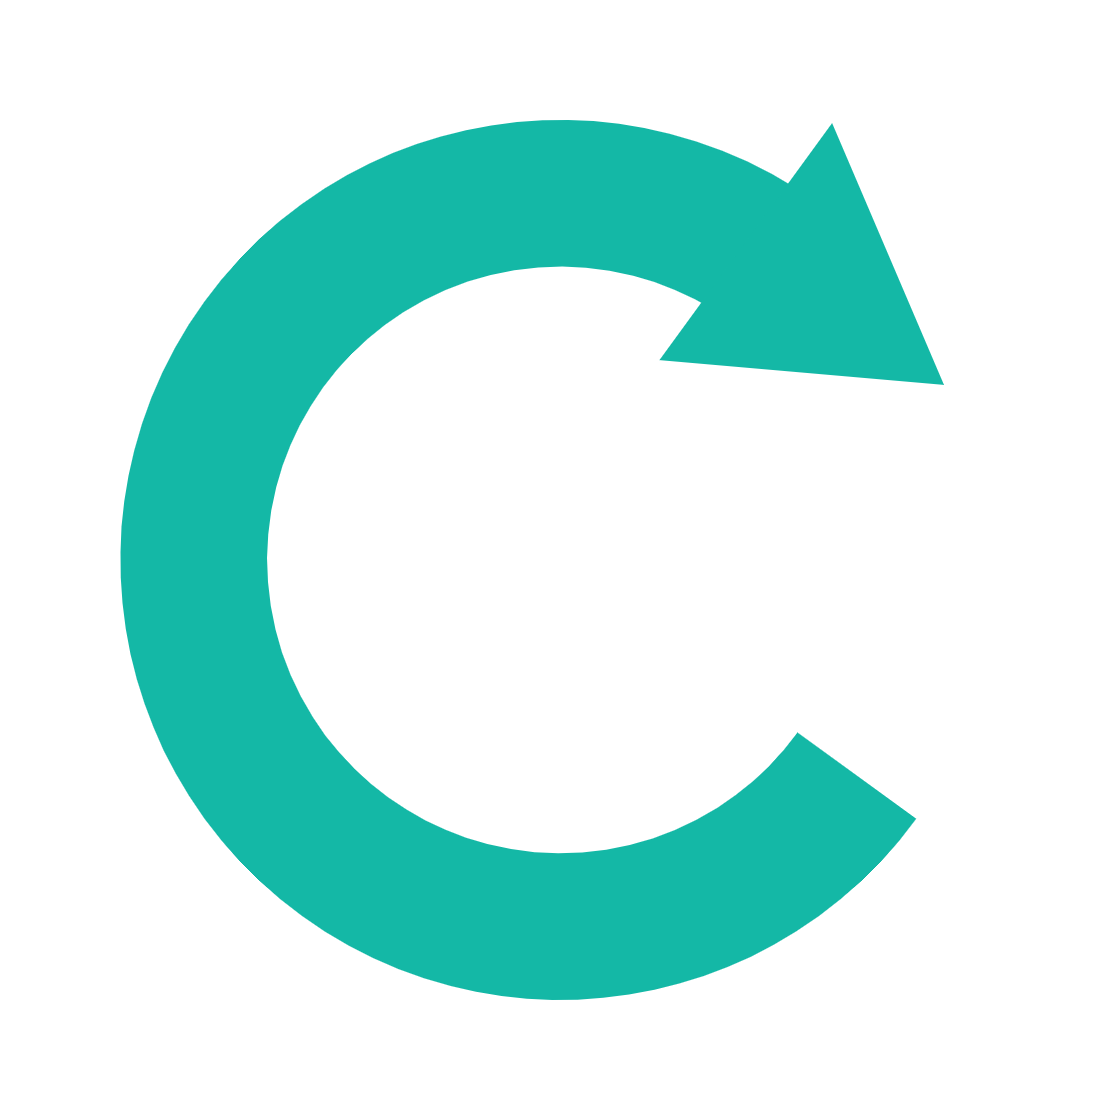
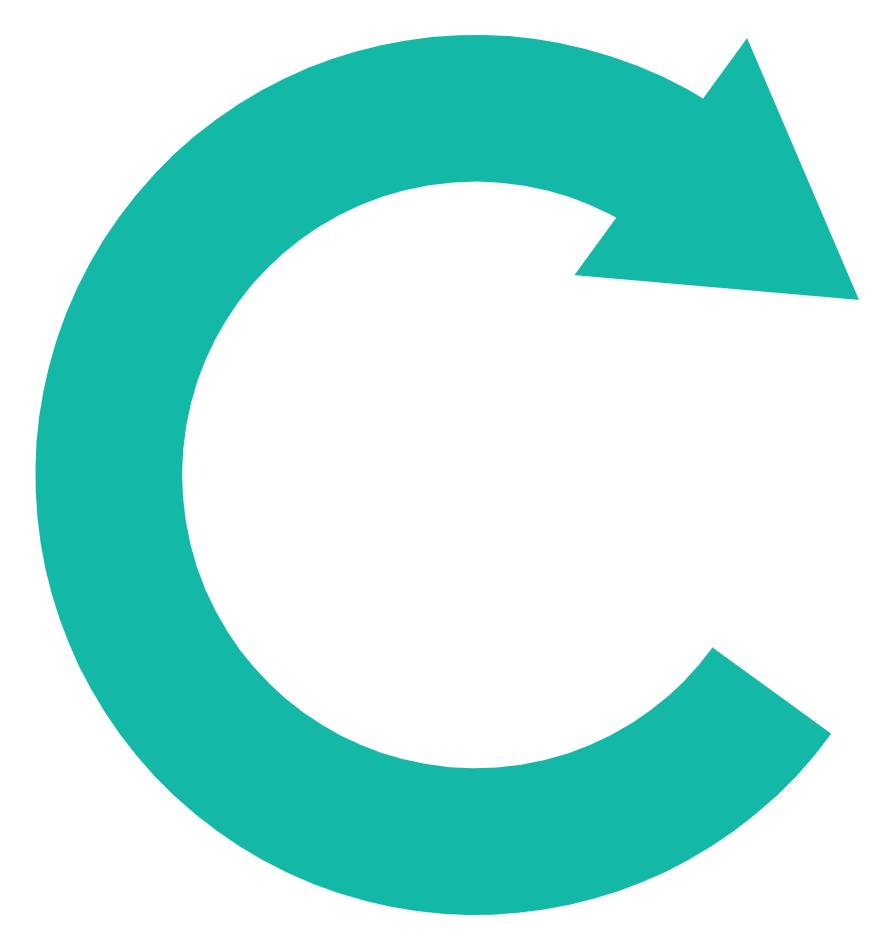
Marca: apara o PNG, conserta o toque roubado e o aqua vira o acento do produto (#21)
* fix(marca): apara a folga do PNG e conserta o toque roubado no contato

Dois defeitos achados medindo o site depois do merge da marca nova.

1) O PNG do wordmark tinha 56% da altura em folga transparente, e
assimetrica (204px topo, 262px base) - a arte nem estava centrada. Onde
o codigo dizia `h-7` (28px), o logo VISIVEL tinha 12px; no hero, `h-11`
(44px) rendia 19px de arte ao lado de um h1 de 34px. Aparado para
margem simetrica de 4%: a arte passou de 44% para 82% da altura do
arquivo, e agora a altura do CSS corresponde ao que se ve. Ratio do
wordmark muda de 1.71 para 2.46 - as larguras se ajustam sozinhas
porque todo uso e `w-auto`.

2) Os tres links do bloco de Contato da pagina publica ficam empilhados
com `gap-3` (12px), e o pseudo-elemento do `toque-48` tem 48px centrados
numa linha de 23px: cada um invadia ~12px para cada lado e encostava no
vizinho. Entre pseudo-elementos sobrepostos quem ganha e o ultimo da
ordem do DOM, entao quem tocava na metade de baixo do TELEFONE do salao
abria o INSTAGRAM. Medido com elementFromPoint: telefone tinha 29px
tocaveis dos 48 prometidos. Trocado por alvo real (`min-h-12`), sem
sobreposicao - telefone e instagram agora com 49px, endereco 77px.

`toque-48` continua certo no resto do app: em alvo isolado, ou em peca
de 40px (Chip, Button sm) que so precisa de 4px para cada lado. Em lista
empilhada de linha curta, ele mente.

Falso alarme descartado no caminho: reportei o link "Precos" do rodape
[…]

Changed region(s): [[0.0302, 0.0305, 0.9664, 0.9768]]

diff --git a/src/app/(public)/[slug]/secoes.tsx b/src/app/(public)/[slug]/secoes.tsx
@@ -222,7 +222,7 @@ export default function SecoesPublicas({ perfil }: { perfil: PerfilPublico }) {
                 href={`https://www.google.com/maps/search/?api=1&query=${encodeURIComponent(perfil.address)}`}
                 target="_blank"
                 rel="noreferrer"
-                className="toque-48 flex items-start gap-2 text-corpo text-txt"
+                className="flex min-h-12 items-start gap-2 py-1 text-corpo text-txt"
               >
                 <MapPin aria-hidden className="mt-0.5 size-4 shrink-0 text-txt-3" />
                 <span>
@@ -231,8 +231,21 @@ export default function SecoesPublicas({ perfil }: { perfil: PerfilPublico }) {
                 </span>
               </a>
             ) : null}
+            {/*
+              Alvo REAL (`min-h-12`), não o `toque-48`. Estas três linhas ficam
+              empilhadas com `gap-3` (12px), e o pseudo-elemento do `toque-48`
+              tem 48px centrados numa linha de 23px — ou seja, invade ~12px para
+              cada lado e ENCOSTA no vizinho. Medido em 2026-08-26: quem tocava
+              na metade de baixo do telefone abria o Instagram, porque entre dois
+              pseudo-elementos sobrepostos quem ganha é o último na ordem do DOM.
+              O telefone ficava com 29px tocáveis dos 48 prometidos.
+
+              `toque-48` continua certo onde é usado no resto do app: em alvo
+              isolado, ou em peça de 40px (`Chip`, `Button sm`) que só precisa de
+              4px para cada lado. Em lista empilhada de linha curta, ele mente.
+            */}
             {perfil.phone ? (
-              <a href={`tel:${perfil.phone}`} className="toque-48 flex items-center gap-2 text-corpo text-txt">
+              <a href={`tel:${perfil.phone}`} className="flex min-h-12 items-center gap-2 text-corpo text-txt">
                 <Phone aria-hidden className="size-4 shrink-0 text-txt-3" />
                 {perfil.phone}
               </a>
@@ -242,7 +255,7 @@ export default function SecoesPublicas({ perfil }: { perfil: PerfilPublico }) {
                 href={`https://instagram.com/${perfil.instagram}`}
                 target="_blank"
                 rel="noreferrer"
-                className="toque-48 flex items-center gap-2 text-corpo text-txt"
+                className="flex min-h-12 items-center gap-2 text-corpo text-txt"
               >
                 <AtSign aria-hidden className="size-4 shrink-0 text-txt-3" />
                 {perfil.instagram}

diff --git a/src/app/globals.css b/src/app/globals.css
@@ -43,19 +43,40 @@
   --txt-3: #99938c;
 
   /*
-   * Acento do PRODUTO — osso, fixo. 16,46:1 sobre --bg nos dois sentidos —
-   * nunca precisa compensar com peso de fonte, ao contrário do roxo (4,94:1).
+   * Acento do PRODUTO — aqua, a cor da marca. Fixo.
+   *
+   * Era osso (#f0ebe3, 16,46:1) desde o redesenho E0–E6. Trocado em 2026-08-26,
+   * depois de uma medição que mostrou o problema: o uróboros entrou como marca
+   * nova em turquesa e a varredura de CSS da landing achou o turquesa em ZERO
+   * propriedades — ele existia só dentro do PNG do logo. O produto era osso
+   * monocromático com um símbolo colorido colado por cima, e o logo lia como
+   * adesivo em vez de origem do sistema. Aqui a cor da marca passa a ser a cor
+   * do produto: botão primário, link, aba ativa, foco.
+   *
+   * O que se perde e foi aceito conscientemente: osso dava 16,46:1 e aqua dá
+   * 7,85:1. Continua bem acima do piso de 4,5 do §7, e o teste de contraste
+   * guarda isso — mas não é mais o caso de "nunca precisa pensar no contraste".
+   *
+   * --acc-2 é #99F6E4 e NÃO a menta #5EEAD4 do arquivo de marca, por um motivo
+   * medido: menta tem Δ luminância de 0,037 contra --ok (#90dfba). As duas são
+   * da família verde, e em daltonismo vermelho-verde (~8% dos homens, público
+   * direto de barbearia) seriam a mesma cor — link ativo indistinguível de selo
+   * de sucesso. #99F6E4 dá Δ0,160, acima do piso de 0,15 que o resto da paleta
+   * já respeita. Há teste guardando esse par agora.
    *
    * O acento do site público de cada salão (`/[slug]`) é OUTRA coisa e vem de
    * `tenants.settings.site.accent`, escolha do dono. NÃO vem mais de
    * `vertical_packs.accent_color` — era essa a fonte do "layout roxo" que
    * voltava em salão de cílios e sobrancelha (`docs/13-CAUSA-RAIZ-LAYOUT-
    * LEGADO.md` T3, executado no 14). Cor de acento nunca é hardcoded em
-   * componente, nem o valor antigo nem o novo.
+   * componente, nem o valor antigo nem o novo. É também por isso que a marca
+   * (`MarcaCiclo`, favicon) segue com o aqua CRAVADO e não `var(--acc)`: na
+   * página do salão o `--acc` é do tenant, e o logo do CICLO não pode vestir a
+   * cor do cliente.
    */
-  --acc: #f0ebe3;
-  --acc-2: #fffcf7;
-  --acc-soft: rgba(240, 235, 227, 0.1);
+  --acc: #14b8a6;
+  --acc-2: #99f6e4;
+  --acc-soft: rgba(20, 184, 166, 0.14);
   --on-acc: #0d0c0c;
   --ring: var(--acc-2);
 

diff --git a/tests/unit/design/contraste.test.ts b/tests/unit/design/contraste.test.ts
@@ -97,6 +97,27 @@ describe('contraste dos tokens (WCAG AA)', () => {
       const delta = Math.abs(luminanciaToken(a) - luminanciaToken(b))
       expect(delta, `Δ(--${a}, --${b}) = ${delta.toFixed(3)}`).toBeGreaterThanOrEqual(PISO)
     })
+
+    /*
+     * O acento entrou nesta conta em 2026-08-26, e entrou porque escapou dela.
+     *
+     * Quando --acc virou a cor da marca (aqua), o candidato natural para --acc-2
+     * era a menta #5EEAD4 do próprio arquivo de logo. Ela dava Δ0,037 contra
+     * --ok: link ativo e selo de sucesso viram a MESMA cor em daltonismo
+     * vermelho-verde. O bloco acima não pegaria — ele só comparava semântico com
+     * semântico, e --acc-2 não é semântico.
+     *
+     * --acc-2 é texto (link, aba ativa, foco) e convive na mesma tela que os
+     * selos de estado, então precisa se separar deles pela mesma régua.
+     * --info fica fora pelo mesmo motivo do bloco de cima: é azul, outro eixo.
+     */
+    it.each([['ok'], ['warn'], ['risk'], ['bad']])(
+      '--acc-2 e --%s têm Δ luminância de pelo menos 0,15',
+      (semantico) => {
+        const delta = Math.abs(luminanciaToken('acc-2') - luminanciaToken(semantico))
+        expect(delta, `Δ(--acc-2, --${semantico}) = ${delta.toFixed(3)}`).toBeGreaterThanOrEqual(PISO)
+      },
+    )
   })
 
   it('as superfícies não colapsam umas nas outras', () => {

diff --git a/docs/DECISOES.md b/docs/DECISOES.md
@@ -2830,3 +2830,27 @@ projeto é **Supabase Pro** (que inclui backup diário por padrão do plano) seg
 evidência disponível sem custo. Fica `[E]`: se um dia for preciso confirmar retenção/restauração de
 verdade, o caminho é o painel do Supabase (Database → Backups) direto, sem precisar de branch paga,
 ou aceitar o custo trivial da branch quando fizer sentido gastar.
+
+2026-08-26 · O acento do produto deixa de ser osso e passa a ser o aqua da marca · Decisão do
+Eduardo, tomada a partir de uma medição, não de gosto. Depois que o uróboros entrou (PRs #19/#20),
+uma varredura de todas as propriedades CSS da landing procurando `#14B8A6`/`#5EEAD4` voltou
+**vazia**: o turquesa existia só dentro do PNG do logo. Na prática o produto era osso monocromático
+com um símbolo colorido colado por cima — o logo lia como adesivo, não como origem do sistema. As
+três saídas oferecidas foram (a) aqua vira a cor específica do Motor de Ciclo, (b) aqua vira o
+acento do produto inteiro, (c) assumir o logo como ilha cromática e registrar. Escolhida a (b).
+`--acc: #f0ebe3 → #14b8a6`, `--acc-soft` idem. **O que se perde, aceito conscientemente:** osso dava
+16,46:1 sobre `--bg` e aqua dá 7,85:1 — continua bem acima do piso de 4,5 do §7, mas acaba o luxo de
+"nunca precisar pensar no contraste" que o E0–E6 tinha comprado. Medido depois: o aqua saiu de 0
+para 26 usos em CSS na landing, com zero reprovação de contraste. A página pública do salão foi
+conferida e **não vaza**: `--acc` lá continua vindo de `tenants.settings.site.accent`, e a marca do
+CICLO (`MarcaCiclo`, favicon) segue com o aqua cravado justamente para não vestir a cor do cliente.
+
+2026-08-26 · `--acc-2` é `#99F6E4` e não a menta `#5EEAD4` que veio no arquivo de marca · A menta
+era o candidato óbvio (é a variante clara do próprio logo) e passava em todos os testes que
+existiam. Medindo antes de aceitar: Δ luminância de **0,037** contra `--ok` (`#90dfba`). As duas são
+da família verde, e em daltonismo vermelho-verde (~8% dos homens, público direto de barbearia) link
+ativo e selo de sucesso seriam a mesma cor. O bloco de daltonismo do `contraste.test.ts` não pegava
+porque só comparava semântico com semântico, e `--acc-2` não é semântico. `#99F6E4` dá Δ0,160,
+acima do piso de 0,15 que o resto da paleta respeita. O teste foi **estendido** para comparar
+`--acc-2` com `ok/warn/risk/bad`, e a guarda foi vista reprovando (menta reintroduzida derruba
+exatamente o par `--acc-2 × --ok`).
